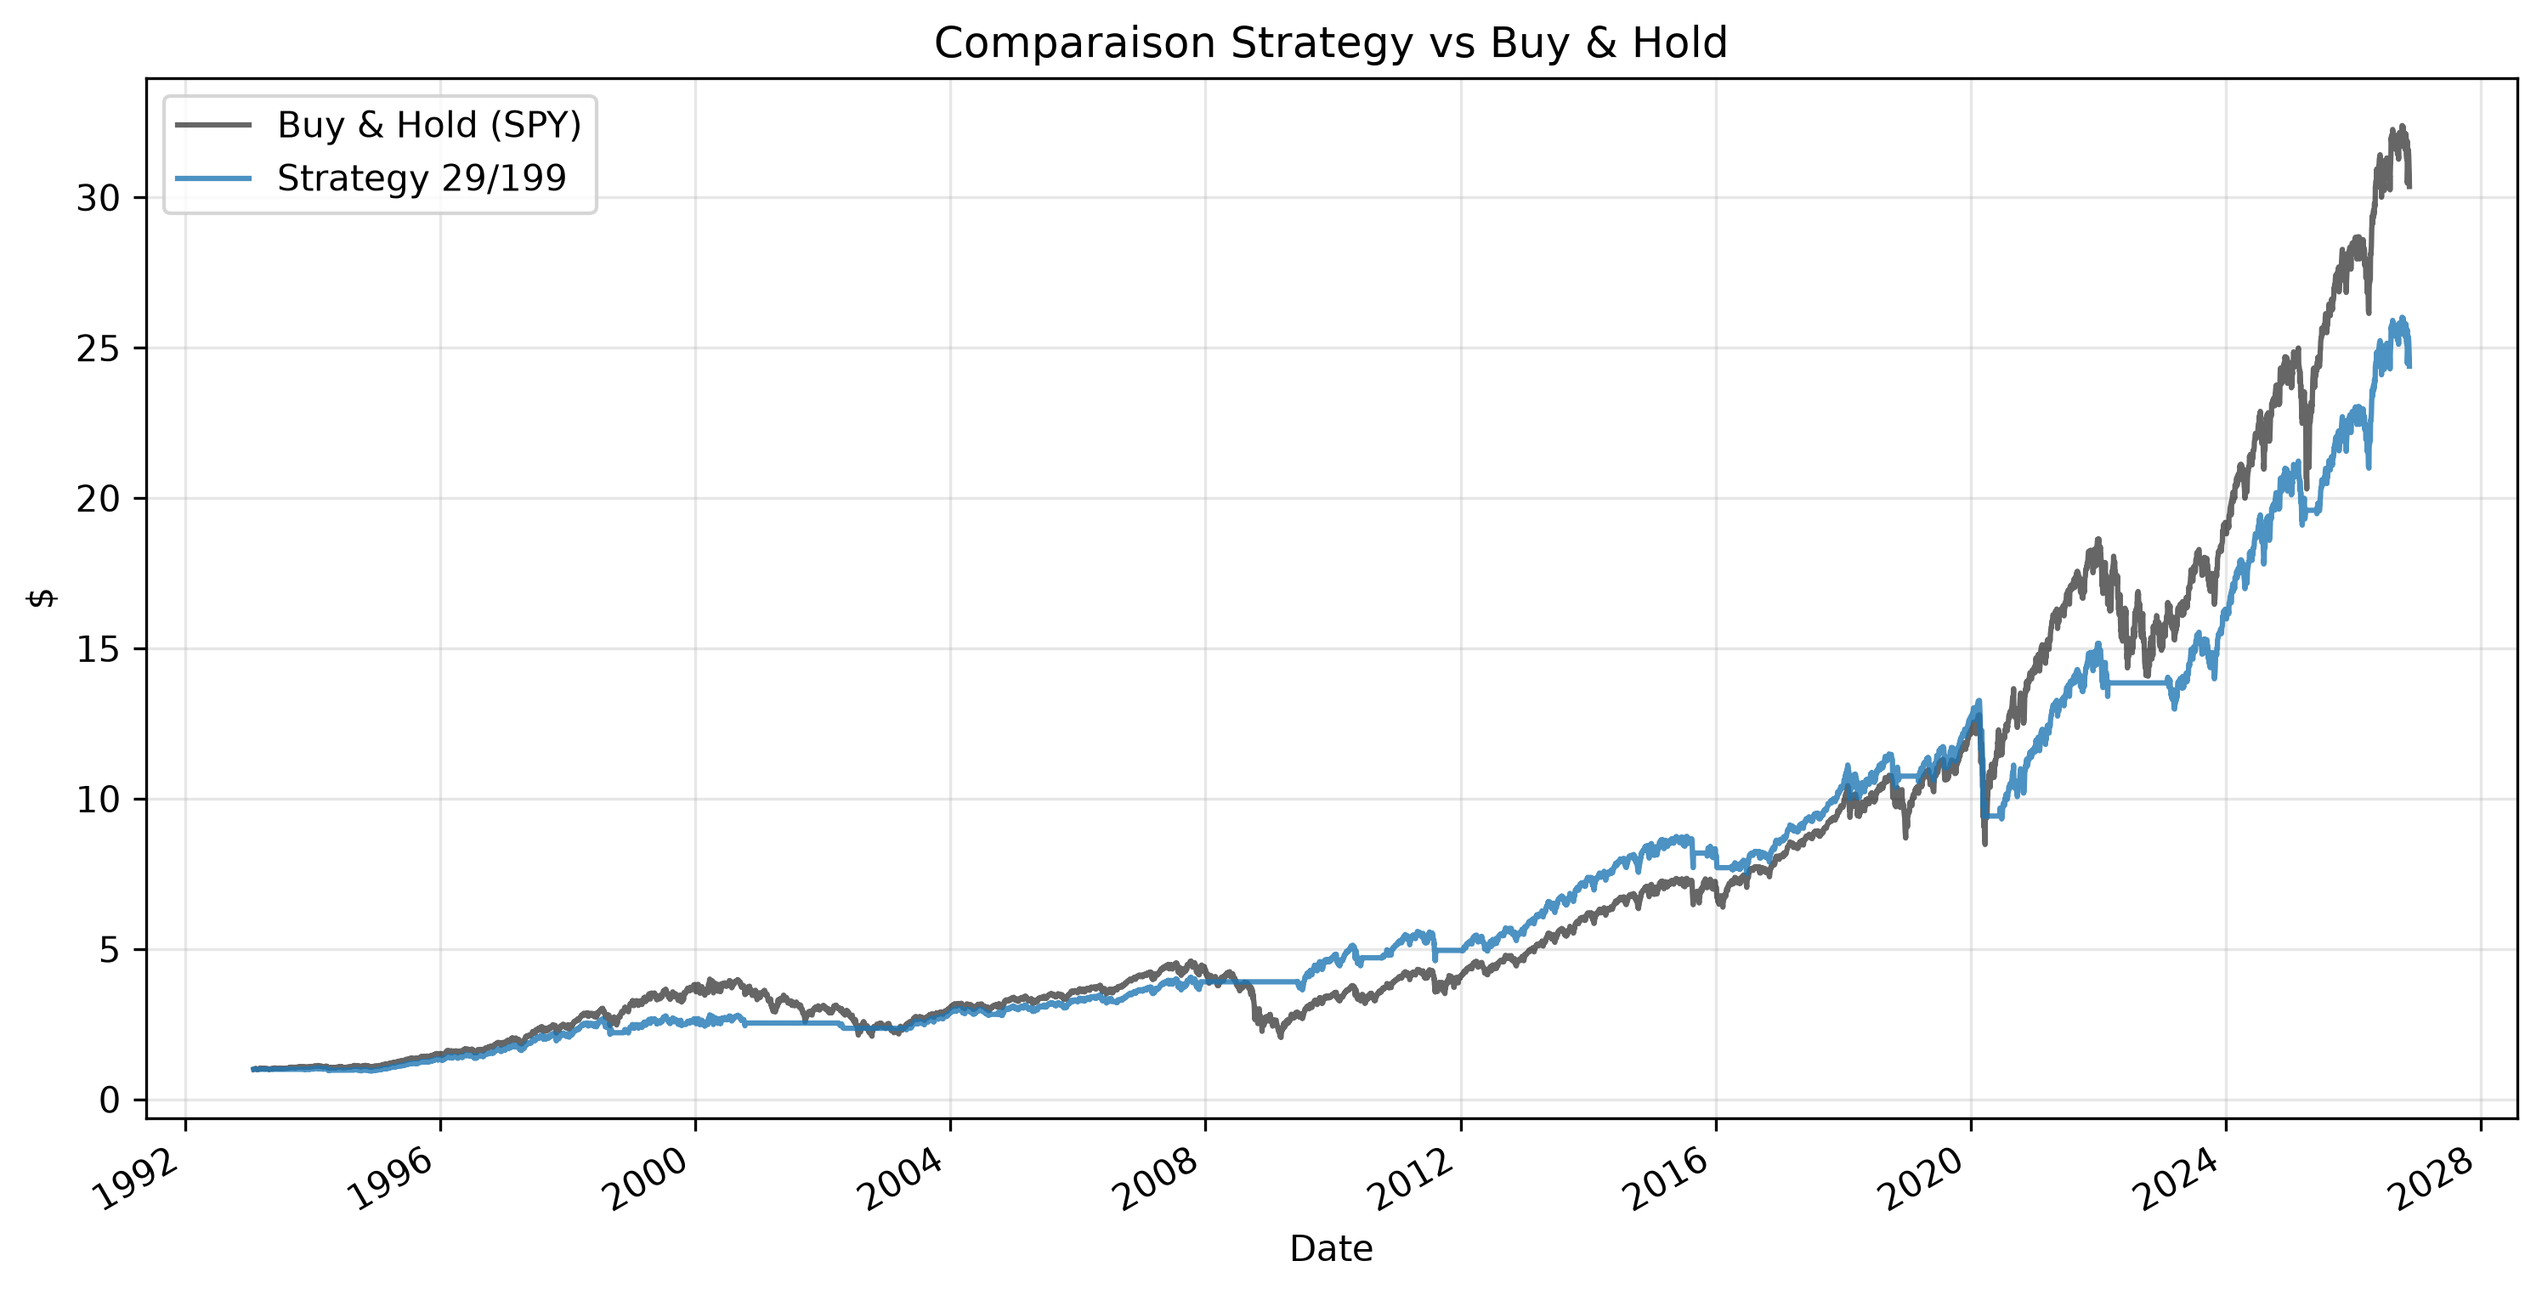
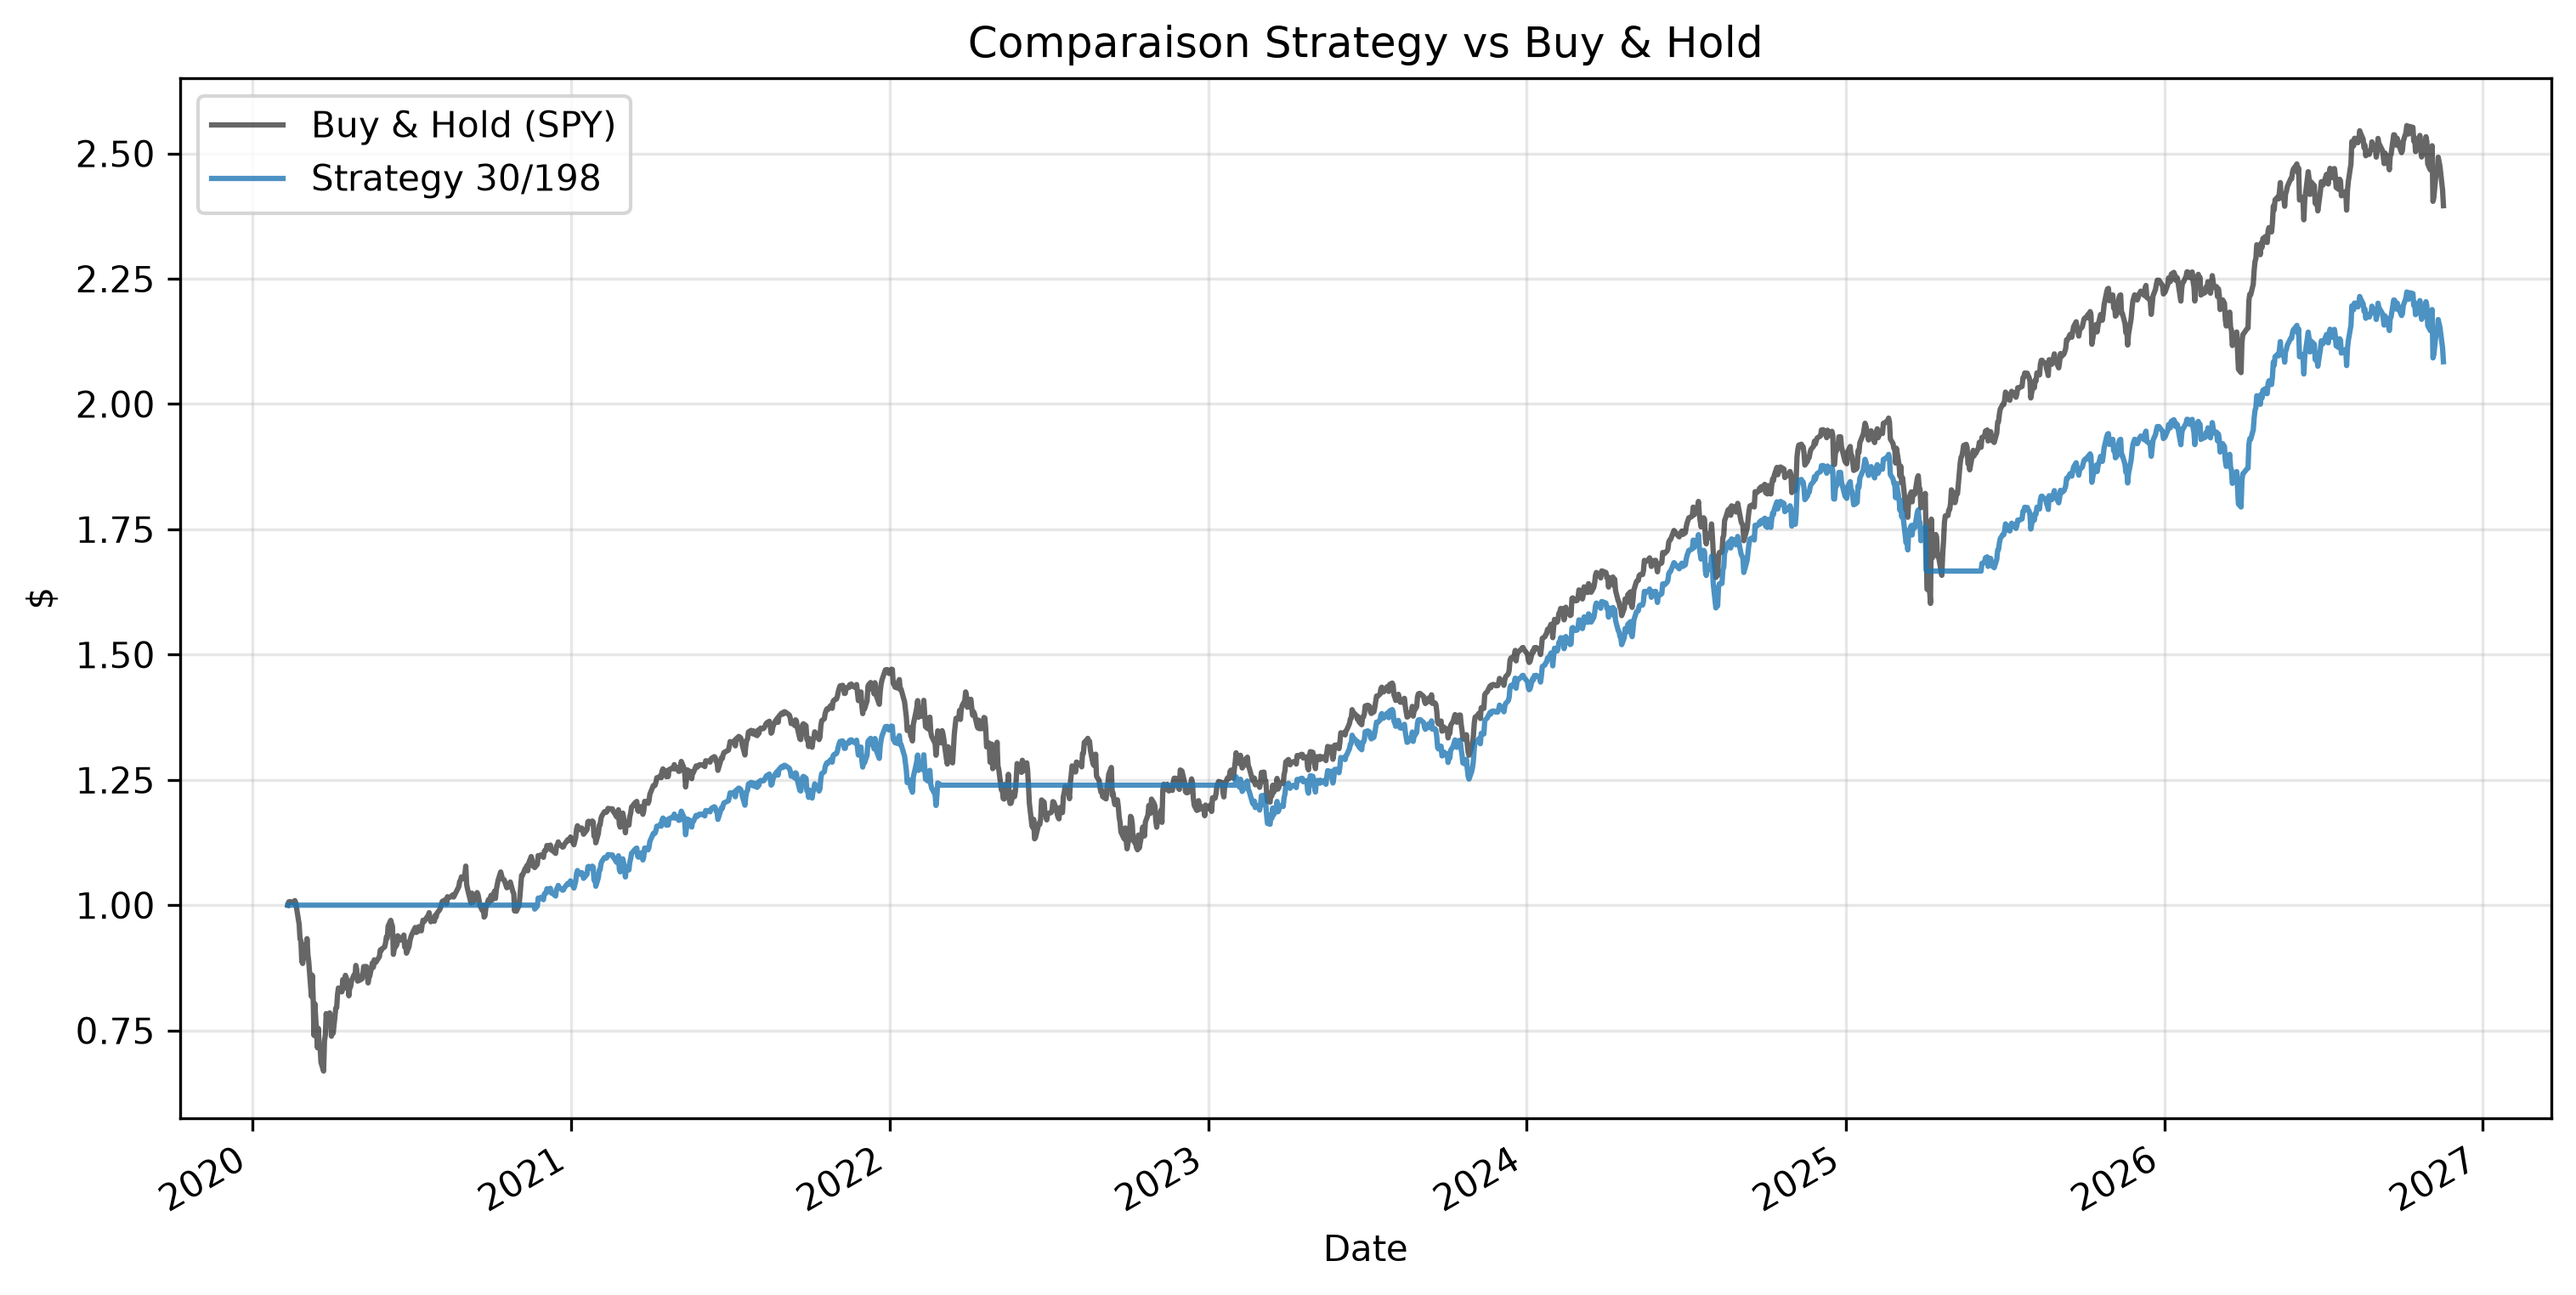
Corections for Strategy MM and Readme

diff --git a/strategy_mm.py b/strategy_mm.py
@@ -12,15 +12,19 @@ if os.path.exists(file_path):
     data = pd.read_csv("data/spy_raw.csv", header=[0, 1], index_col=0, parse_dates=True)
 else:
     data = yf.download('SPY', start="1900-01-01", auto_adjust=True)
-    if isinstance(data.columns, pd.MultiIndex):
-        data.columns = data.columns.get_level_values(0)
     data.to_csv(file_path)
 
-price = data["Close"].squeeze()
+split_idx = int(len(data) * 0.8)
+
+data_train = data.iloc[:split_idx]
+data_test = data.iloc[split_idx:]
+
+price = data_train["Close"].squeeze()
+price_test = data_test["Close"].squeeze()
 
 fig, ax = plt.subplots(figsize=(12, 6))
 
-yields = price.pct_change().fillna(0)
+yields = price_test.pct_change().fillna(0)
 cumul_market = (yields + 1).cumprod()
 yields_market = cumul_market - 1
 cumul_market.plot(ax=ax, label="Buy & Hold (SPY)", color="black", alpha=0.6)
@@ -46,8 +50,8 @@ for up in test_upper:
 df_optimisation = pd.DataFrame(results_array).sort_values(by='yields_strat', ascending=False)
 best = df_optimisation.iloc[0]
 
-backtest_best = backtest_mm(price, int(best['upper']), int(best['lower']))
-yields_daily = backtest_best['Yields_Strategy_Gross'].fillna(0)
+backtest_best = backtest_mm(price_test, int(best['upper']), int(best['lower']))
+yields_daily = backtest_best['Yields_Strategy_Net'].fillna(0)
 
 best_max_drawdown = max_drawdown(backtest_best[f"Strategy {int(best['upper'])}/{int(best['lower'])}"])
 
@@ -76,4 +80,5 @@ plt.ylabel("$")
 plt.legend()
 plt.grid(True, alpha=0.3)
 
+plt.savefig("dashboard_spy_rf.png", dpi=300, bbox_inches="tight")
 plt.show()

diff --git a/walk_forward.py b/walk_forward.py
@@ -2,11 +2,9 @@ import pandas as pd
 import yfinance as yf
 import matplotlib.pyplot as plt
 import numpy as np
-from sklearn.linear_model import LogisticRegression
 from sklearn.preprocessing import StandardScaler
 from sklearn.metrics import classification_report, accuracy_score, confusion_matrix, ConfusionMatrixDisplay
 from sklearn.ensemble import RandomForestClassifier
-from sklearn.model_selection import TimeSeriesSplit, GridSearchCV
 from backtest_functions import metrics
 import os
 
@@ -17,8 +15,6 @@ if os.path.exists(file_path):
     data = pd.read_csv("data/spy_raw.csv", header=[0, 1], index_col=0, parse_dates=True)
 else:
     data = yf.download('SPY', start="1900-01-01", auto_adjust=True)
-    if isinstance(data.columns, pd.MultiIndex):
-        data.columns = data.columns.get_level_values(0)
     data.to_csv(file_path)
 
 price = data["Close"].squeeze()

diff --git a/time_series.py b/time_series.py
@@ -2,7 +2,6 @@ import pandas as pd
 import yfinance as yf
 import matplotlib.pyplot as plt
 import numpy as np
-from sklearn.linear_model import LogisticRegression
 from sklearn.preprocessing import StandardScaler
 from sklearn.metrics import classification_report, accuracy_score, confusion_matrix, ConfusionMatrixDisplay
 from sklearn.ensemble import RandomForestClassifier
@@ -17,8 +16,6 @@ if os.path.exists(file_path):
     data = pd.read_csv("data/spy_raw.csv", header=[0, 1], index_col=0, parse_dates=True)
 else:
     data = yf.download('SPY', start="1900-01-01", auto_adjust=True)
-    if isinstance(data.columns, pd.MultiIndex):
-        data.columns = data.columns.get_level_values(0)
     data.to_csv(file_path)
 
 price = data["Close"].squeeze()

diff --git a/backtest_functions.py b/backtest_functions.py
@@ -1,6 +1,4 @@
 import pandas as pd
-import yfinance as yf
-import matplotlib.pyplot as plt
 import numpy as np
 
 def backtest_mm(price, up, low, fee=0.001):

diff --git a/README.md b/README.md
@@ -1,16 +1,10 @@
-## Installation
-
-Ensure Python 3.9+ is installed along with the required libraries:
-
-```bash
-pip install pandas numpy yfinance matplotlib scikit-learn
----
+## Installation & Summary
 
 # Quantitative Trading Strategy: SPY Directional Prediction with Random Forest
 
 ## Project Overview
 This project implements two end-to-end machine learning pipelines to predict next-day directional movements of the **S&P 500 ETF (SPY)**. The framework enforces chronological integrity to eliminate look-ahead bias and evaluates strategy viability net of transaction costs.
-A Crossover Moving Average Strategy is also part of the tests, no ML for this one. It's less interestant but I still decided to keep it because it's what actually made me realized this project in ML.
+A Crossover Moving Average Strategy is also part of the tests, no ML for this one. It's less important but I still decided to keep it because it's what actually made me realized this project in ML.
 
 ---
 
@@ -34,17 +28,17 @@ A Crossover Moving Average Strategy is also part of the tests, no ML for this on
 | **Annualized Return** | 13.80% | **12.04%** |
 | **Annualized Volatility** | 17.06% | **16.64%** |
 | **Sharpe Ratio** | 0.73 | **0.65** |
-| **Maximum Drawdown** | --33.72% | **-33.72%** |
+| **Maximum Drawdown** | -33.72% | **-33.72%** |
 
 ![Strategy Performance Dashboard Moving Average](Graphics/strategy_mm_graph.png)
 
-### Risk-Adjusted Metrics Comparison (1993 - 2026)
-| Metric | Buy & Hold (SPY) | MM 29 / MM 199 Strategy (Net of Fees) |
+### Risk-Adjusted Metrics Comparison (2020 - 2026)
+| Metric | Buy & Hold (SPY) | MM 30 / MM 198 Strategy (Net of Fees) |
 | :--- | :---: | :---: |
-| **Annualized Return** | 10.64% | **10.03%** |
-| **Annualized Volatility** | 18.53% | **12.07%** |
-| **Sharpe Ratio** | 0.53 | **0.65** |
-| **Maximum Drawdown** | -55.19% | **-29.58%** |
+| **Annualized Return** | 13.81% | **11.49%** |
+| **Annualized Volatility** | 20.12% | **11.41%** |
+| **Sharpe Ratio** | 0.65 | **0.84** |
+| **Maximum Drawdown** | -33.72% | **-14.43%** |
 
 *(Note: Strategies returns incorporate a 10 bps transaction cost penalty per trade)*
 
@@ -65,20 +59,28 @@ A Crossover Moving Average Strategy is also part of the tests, no ML for this on
    * Feature scaling (`StandardScaler`) is fit on training folds before transforming out-of-sample data.
 
 3. **Hyperparameter Optimization & Validation**
-   * Regularized `RandomForestClassifier` (`max_depth`, `min_samples_leaf`, `n_estimators`) via `GridSearchCV`.
+   * Regularized `RandomForestClassifier` (`max_depth`, `min_samples_leaf`, `n_estimators`) via `GridSearchCV` for **`TimeSeriesSplit`**.
    * Evaluated using **`TimeSeriesSplit`** and **`Walk-Forward`** validation.
 
 ---
+
+## Limitations
+
+**`ML Models`** Due to the S&P 500's long-term upward drift, the classifier exhibits a strong bias toward predicting upward days (`1`). The 10 bps transaction fees erode any marginal alpha, causing the strategy to underperform Buy & Hold.
+
+**`Moving Average Strategy`** Acts as an effective defensive filter, reducing both volatility and maximum drawdown. But it underperforms the S&P 500 on an annualized return basis probably due to lagging signals during market recoveries.
 
 ## Repository Structure
 
 ```text
 ├── data/                   # Local CSV market data cache (ignored by Git)
 ├── Graphics/               # Exported high-resolution performance dashboards
-│   └── dashboard_spy_rf.png
+│   └── strategy_mm_graph.png
+│   └── time_series_graph.png
+│   └── walk_forward_graph.png
 ├── backtest_functions.py   # Risk metrics (Sharpe, Drawdown)
 ├── walk_forward.py         # ML training, Walk Forward
-├── times_series.py         # ML training, Time Series strategy
+├── time_series.py         # ML training, Time Series strategy
 ├── strategy_mm.py          # Moving Average crossover strategy
 ├── requirements.txt        # Pinned Python dependencies for reproducibility
 └── README.md
